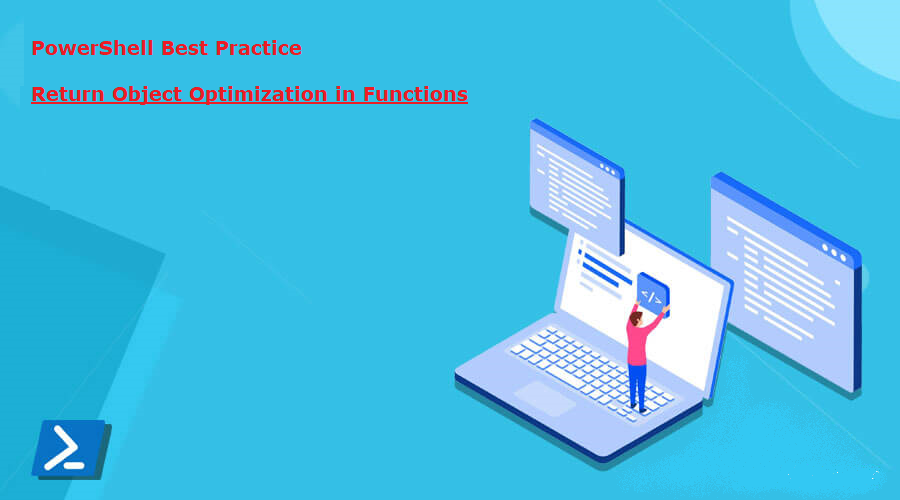
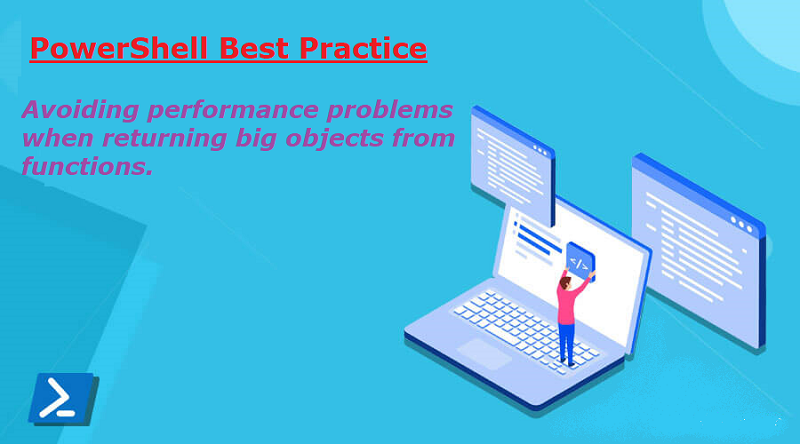
auto

Changed region(s): [[0.0312, 0.1757, 0.5938, 0.4099], [0.0312, 0.0586, 0.5312, 0.1464]]

diff --git a/_includes/version.html b/_includes/version.html
@@ -1,3 +1,3 @@
 
-    <p>Current version 2.1.396.c9467de</p>
+    <p>Current version 2.1.397.cb87b52</p>
 </footer>

diff --git a/_posts/2023-09-22-returnobj-optimization.md b/_posts/2023-09-22-returnobj-optimization.md
@@ -1,9 +1,9 @@
 ---
 layout: post
-title:  "PowerShell Script autoUpdate"
-summary: "Having a script check for it's latest version and auto update and relauch if available"
+title:  "PowerShell Best Practice: Returning BIG Objects from Functions"
+summary: "Little hack to improve performance of functions returning big objects"
 author: guillaume
-date: '2023-09-22'
+date: '2023-09-23'
 category: ['powershell','scripts', 'update', 'optimization', 'best practice']
 tags: powershell, scripts, regex, regular, 'optimization', 'best practice'
 thumbnail: /assets/img/posts/returnobj-optimization/main.png
@@ -13,12 +13,30 @@ permalink: /blog/returnobj-optimization/
 
 ---
 
+## Overview
+
+Let's make a function that will return an array of bytes:
+
+```powershell
+  function Read-ByteArray([string]$Path) {
+    $fs = [System.IO.FileStream]::new($Path, [System.IO.FileMode]::Open, [System.IO.FileAccess]::Read)
+    [byte[]]$file_bytes = [byte[]]::new($fs.Length)
+    $Null = $fs.Read($file_bytes, 0, $fs.Length) 
+    $fs.Close()
+    $fs.Dispose()
+    $file_bytes
+  }  
+```
+
+*Forget that there is a native .NET function to read bytes and follow me a bit...*
+
+When you use that function to read a big file, like something in the order of hundreds of Megabytes, you will notice that the function takes a long time to execute. It should be right? I mean it's just reading bytes, not processing them...
 
 ## Returning BIG objects in PowerShell
 
-When returning big arrays from function in PowerShell, you need to take into account that PowerShell unrolls your objects when you return them.
+When returning big arrays from function in PowerShell, ***you need to take into account that PowerShell unrolls your objects when you return them.***
 
-You will notice that if you use your function ```Read-ByteArray``` to read a big file (like a few hundreds MB), it will take a long time. The reason is not the reading of the bytes but the way you return the data.
+The reason for the performance hang is not the *reading* of the bytes but *the way you return the data*.
 
 a ```Return``` statement or just putting the variable on the last line like you did, you tell PowerShell to 'unrolls' the return object before returning. this can be long for big byte arrays. The solution is to just add the [unary comma](https://learn.microsoft.com/en-us/powershell/module/microsoft.powershell.core/about/about_operators?view=powershell-7.3&viewFallbackFrom=powershell-7#comma-operator-) ```,``` before the returned $byteArray like this:
 
@@ -35,8 +53,26 @@ Second option, you can use ```Write-Output -NoEnumerate``` Instead of return:
   Write-Output $bytes -NoEnumerate
 ```
 
+To fix the function above we would have this:
+
+```powershell
+  function Read-ByteArray([string]$Path) {
+    $fs = [System.IO.FileStream]::new($Path, [System.IO.FileMode]::Open, [System.IO.FileAccess]::Read)
+    [byte[]]$file_bytes = [byte[]]::new($fs.Length)
+    $Null = $fs.Read($file_bytes, 0, $fs.Length) 
+    $fs.Close()
+    $fs.Dispose()
+    Write-Output $file_bytes -NoEnumerate
+  }  
+```
+
+
+-------------------
+
+
 Here's a test, with a file of 350MB
 
+[Test Script](https://arsscriptum.github.io/assets/img/posts/returnobj-optimization/test.ps1)
 
 <center>
 <img src="https://arsscriptum.github.io/assets/img/posts/returnobj-optimization/return.png" alt="table" />
@@ -44,75 +80,3 @@ Here's a test, with a file of 350MB
 <br>
 
 
-
-```powershell
-
-  <#
-   Read a Byte Array, return the data with Write-Output -NoEnumerate (not unrolling)
-  #>
-  function Read-ByteArray_NoEnum([string]$Path) {
-    $fs = [System.IO.FileStream]::new($Path, [System.IO.FileMode]::Open, [System.IO.FileAccess]::Read)
-    [byte[]]$file_bytes = [byte[]]::new($fs.Length)
-    $Null = $fs.Read($file_bytes, 0, $fs.Length) 
-    $fs.Close()
-    $fs.Dispose()
-
-    # Using Write-Output
-    Write-Output $file_bytes -NoEnumerate
-  }  
-  
-  $time_spent = Measure-Command { $b = Read-ByteArray_NoEnum("$f") }
-  $log_results =  "Read-ByteArray_NoEnum {0:N2} seconds" -f $time_spent.TotalSeconds
-  Write-Host "$log_results`n" -f DarkYellow
-
-  <#
-    Read a Byte Array, return the data in another object using the unary comma
-  #>
-  function Read-ByteArray_Unary([string]$Path) {
-    $fs = [System.IO.FileStream]::new($Path, [System.IO.FileMode]::Open, [System.IO.FileAccess]::Read)
-    [byte[]]$file_bytes = [byte[]]::new($fs.Length)
-    $Null = $fs.Read($file_bytes, 0, $fs.Length) 
-    $fs.Close()
-    $fs.Dispose()
-    
-    # return using unary comma
-    ,$file_bytes
-  } 
-
-  $time_spent = Measure-Command { $b = Read-ByteArray_Unary("$f") }
-  $log_results =  "Read-ByteArray_Unary {0:N2} seconds" -f $time_spent.TotalSeconds
-  Write-Host "$log_results`n" -f DarkYellow
-
-  <#
-   Read a Byte Array, return the data normally (powershell will unroll the object)
-  #>
-  function Read-ByteArray_Ret([string]$Path) {
-    $fs = [System.IO.FileStream]::new($Path, [System.IO.FileMode]::Open, [System.IO.FileAccess]::Read)
-    [byte[]]$file_bytes = [byte[]]::new($fs.Length)
-    $Null = $fs.Read($file_bytes, 0, $fs.Length) 
-    $fs.Close()
-    $fs.Dispose()
-    
-    # simple return
-    $file_bytes
-  }  
-
-  $time_spent = Measure-Command { $b = Read-ByteArray_Ret("$f") }
-  $log_results =  "Read-ByteArray_Ret {0:N2} seconds" -f $time_spent.TotalSeconds
-  Write-Host "$log_results`n" -f DarkYellow
-
-```
-
-
--------------------
-
-
-<br>
-
-
-## Get the code 
-
-[AutoUpdateScript on GitHub](https://github.com/arsscriptum/PowerShell.Reddit.Support/tree/master/ReturnOptimization)
-
-
-***Important Note*** Do You have Issues accessing the core repository? **Don't be shy and send me an** [EMAIL to guillaumeplante.qc@gmail.com](mailto:guillaumeplante.qc@gmail.com) **and I will fix access for you**

diff --git a/categories/best practice.md b/categories/best practice.md
@@ -1,0 +1,13 @@
+---
+layout: page
+title: PowerShell
+permalink: /blog/categories/best practice/
+---
+
+<h5> Posts by Category : {{ page.title }} </h5>
+
+<div class="card">
+{% for post in site.categories.best practice %}
+ <li class="category-posts"><span>{{ post.date | date_to_string }}</span> &nbsp; <a href="{{ post.url }}">{{ post.title }}</a></li>
+{% endfor %}
+</div>

diff --git a/categories/optimization.md b/categories/optimization.md
@@ -1,0 +1,13 @@
+---
+layout: page
+title: PowerShell
+permalink: /blog/categories/optimization/
+---
+
+<h5> Posts by Category : {{ page.title }} </h5>
+
+<div class="card">
+{% for post in site.categories.optimization %}
+ <li class="category-posts"><span>{{ post.date | date_to_string }}</span> &nbsp; <a href="{{ post.url }}">{{ post.title }}</a></li>
+{% endfor %}
+</div>
